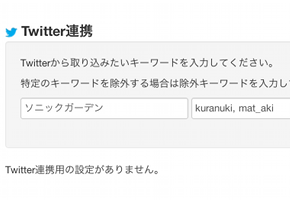
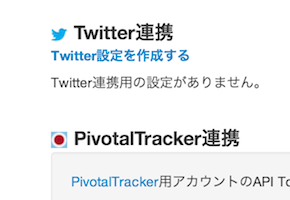
古くなっていた説明を削除

diff --git a/youroomassistant/index.html b/youroomassistant/index.html
@@ -334,13 +334,24 @@
                   <img src='images/twitter_howto_02.png'>
                 </div>
                 <p class='text'>
-                  Twitterから取り込みたいキーワードを指定します。特定のキーワードを除外する場合は除外キーワードを入力してください。複数ある場合はカンマ(,)で区切ります。
+                  アシスタントのルーム設定画面にある「Twitter設定を作成する」リンクをクリックします。
                 </p>
               </li>
               <li>
                 <h4 class='number'>3</h4>
                 <div class='image'>
                   <img src='images/twitter_howto_03.png'>
+                </div>
+                <p class='text'>
+                  Twitterから取り込みたいキーワードを指定します。特定のキーワードを除外する場合は除外キーワードを入力してください。複数ある場合はカンマ(,)で区切ります。
+                </p>
+              </li>
+            </ol>
+            <ol>
+              <li>
+                <h4 class='number'>4</h4>
+                <div class='image'>
+                  <img src='images/twitter_howto_04.png'>
                 </div>
                 <p class='text'>
                   「登録する」ボタンをクリックすると設定完了です。以降は定期的に条件に合致するツイートがyouRoomに取り込まれます。
